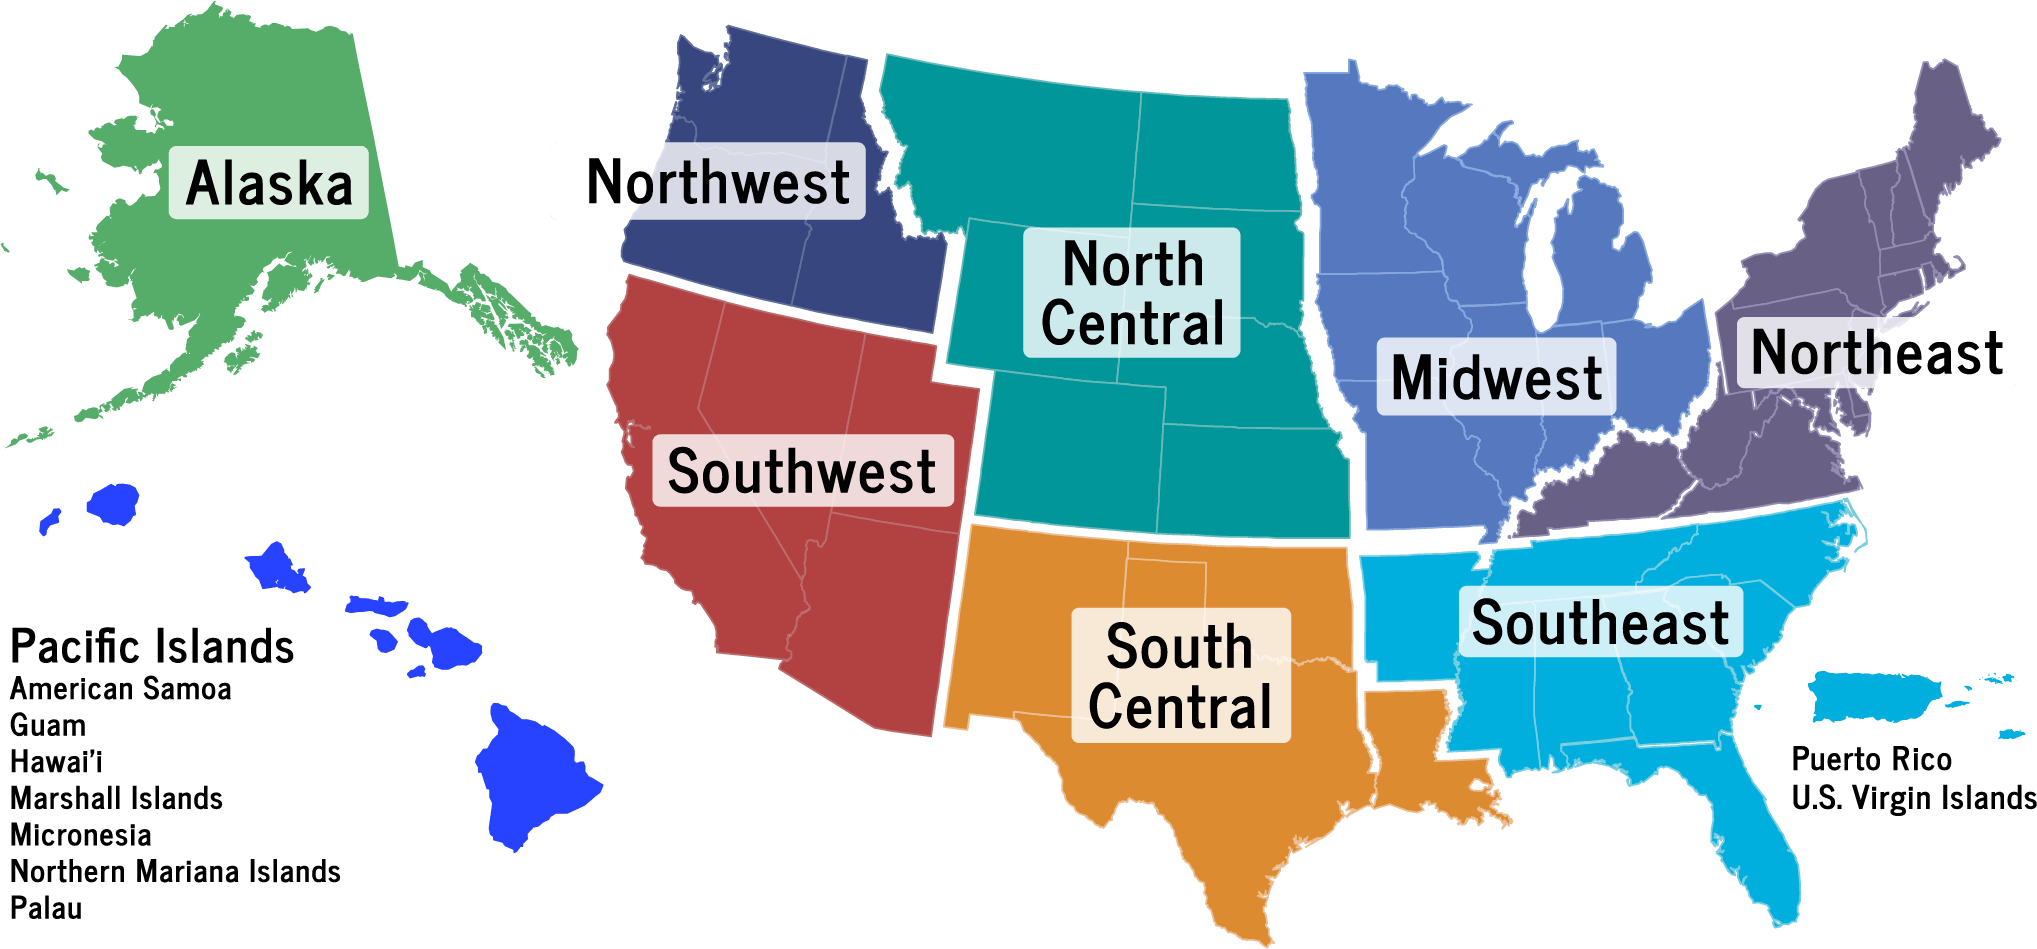
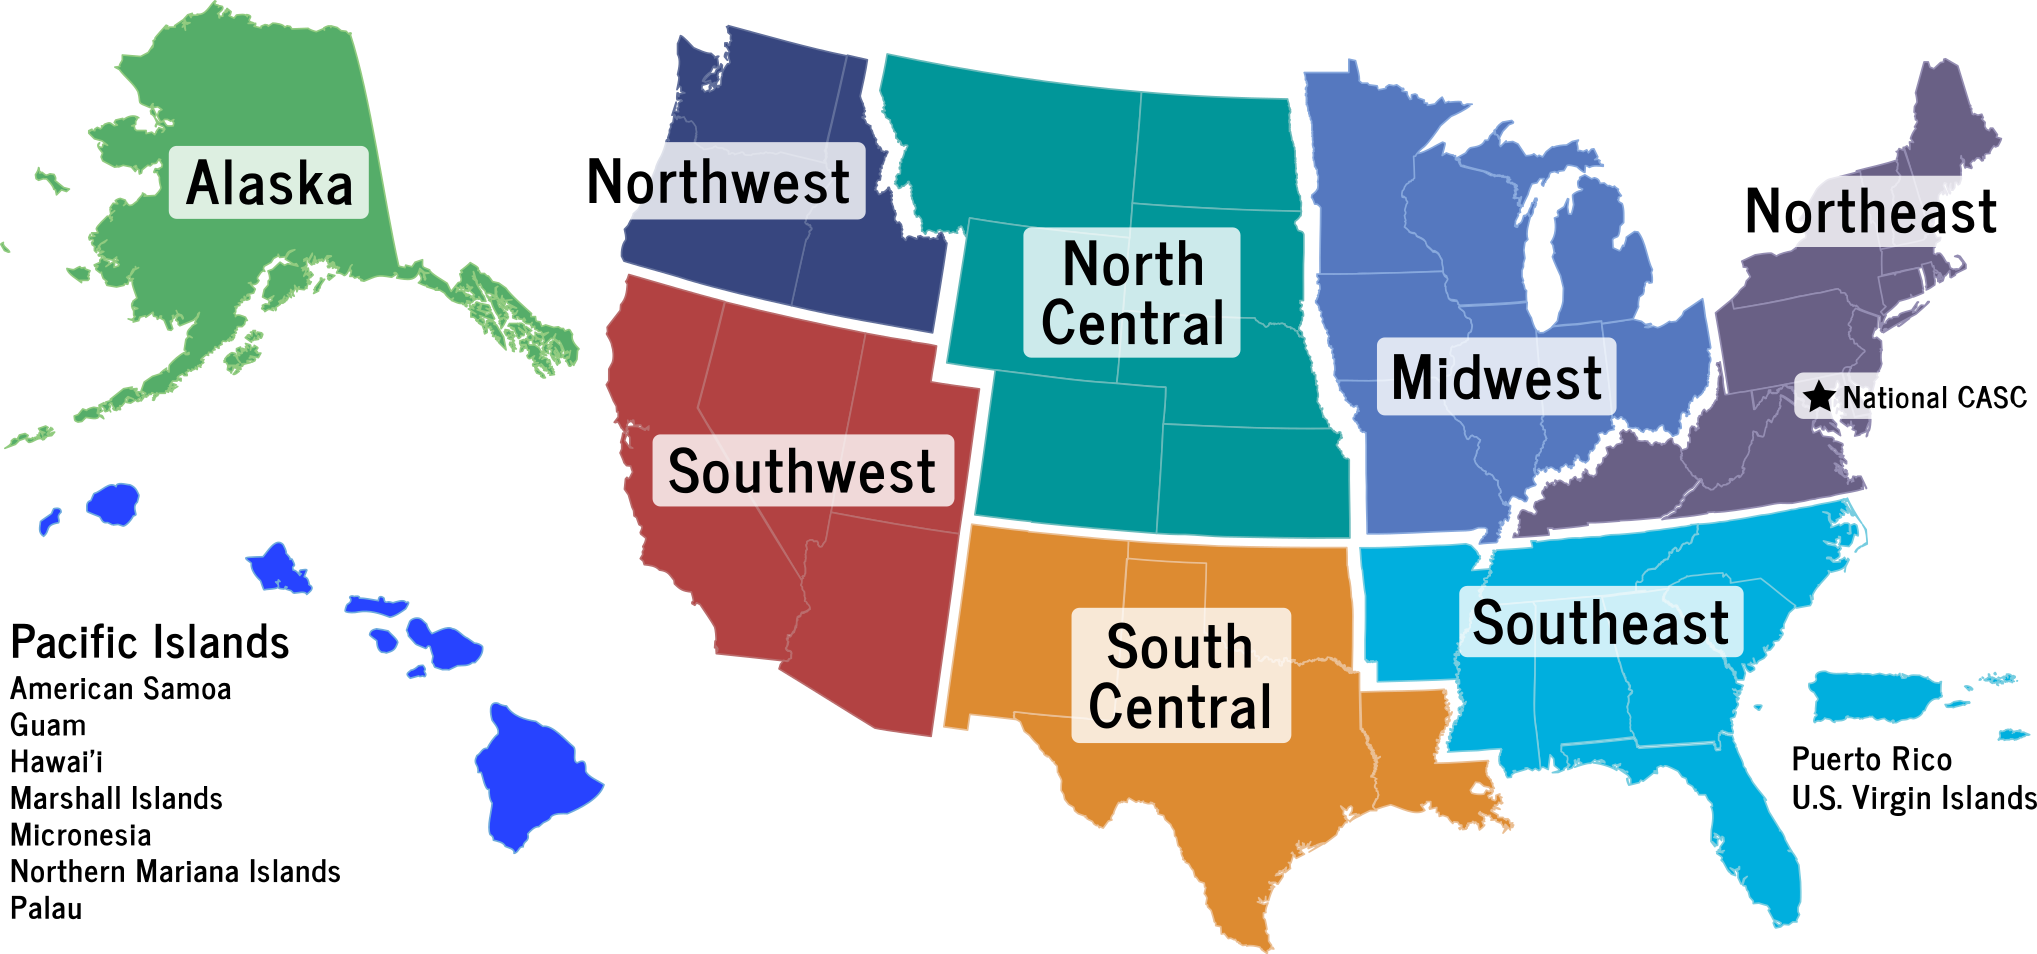
Updates CASC map with National CASC and new HTML area map. (#92)
* Updates CASC map with National CASC and new HTML area map.

* Larged CASC map and updated HTML area map.

diff --git a/src/app/cscs/cscs.component.html b/src/app/cscs/cscs.component.html
@@ -12,15 +12,16 @@
       <h3>Search by region</h3>
       <img class="casc-map" src="assets/images/casc_regional_map.png" usemap="#casc-image" (load)="imageResized();" alt="Map showing the different CASC regions" />
       <map name="casc-image">
-        <area target="" alt="Alaska" title="Alaska" href="#/casc/alaska" coords="-1,0,582,453" shape="rect">
-        <area target="" alt="Pacific Islands" title="Pacific Islands" href="#/casc/pacific-islands" coords="-1,468,607,934" shape="rect">
-        <area target="" alt="Northwest" title="Northwest" href="#/casc/northwest" coords="587,4,589,262,939,341,954,241,910,225,893,190,884,166,893,153,871,94,871,52,738,20" shape="poly">
-        <area target="" alt="Southwest" title="Southwest" href="#/casc/southwest" coords="609,269,593,326,613,468,633,564,672,593,707,645,705,667,766,676,919,748,934,741,980,385,939,378,934,345" shape="poly">
-        <area target="" alt="North Central" title="North Central" href="#/casc/north-central" coords="878,55,880,105,891,138,895,160,893,184,915,225,958,238,943,365,991,378,972,518,1352,538,1345,446,1326,398,1306,324,1304,223,1291,94" shape="poly">
-        <area target="" alt="South Central" title="South Central" href="#/casc/south-central" coords="969,522,943,730,967,737,974,719,1013,726,1055,772,1063,802,1103,837,1125,811,1151,813,1190,879,1208,929,1273,947,1299,855,1374,815,1511,837,1490,761,1439,757,1446,691,1363,691,1350,549" shape="poly">
-        <area target="" alt="Midwest" title="Midwest" href="#/casc/midwest" coords="1293,57,1310,212,1312,324,1345,415,1358,444,1363,536,1468,534,1472,549,1498,540,1516,503,1540,475,1590,459,1612,422,1680,437,1708,387,1704,300,1640,315,1658,271,1640,221,1614,181,1599,147,1468,101,1369,59" shape="poly">
-        <area target="" alt="Southeast" title="Southeast" href="#/casc/southeast" coords="1352,549,1367,667,1374,684,1452,687,1444,748,1496,752,1507,781,1562,781,1614,772,1627,789,1669,774,1702,805,1699,844,1771,936,1806,923,1813,827,2036,818,2036,652,1785,656,1876,549,1865,496,1671,525,1494,555" shape="poly">
-        <area target="" alt="Northeast" title="Northeast" href="#/casc/northeast" coords="1946,46,1914,46,1900,127,1815,173,1791,238,1739,249,1739,282,1712,308,1710,391,1680,444,1621,431,1588,466,1529,490,1507,536,1653,520,1872,483,1855,450,1892,391,2016,385,2012,321,1931,308,1981,262,1959,214,2005,140" shape="poly">
+        <area target="" alt="Alaska" title="Alaska" href="#/casc/alaska" coords="210,2,192,14,159,27,150,47,127,50,120,61,139,101,161,122,148,128,138,112,96,130,31,169,-1,247,89,279,123,293,130,324,145,338,174,331,179,344,-1,439,6,452,175,394,233,374,256,356,267,308,300,292,310,295,346,281,402,279,454,302,469,326,539,376,579,364,568,329,537,317,472,261,456,284,420,263,404,263,354,34,334,25,316,31,280,16,264,25,247,13" shape="poly">
+        <area target="" alt="Pacific Islands" title="Pacific Islands" href="#/casc/pacific-islands" coords="-1,486,132,473,287,536,487,643,607,785,588,803,552,821,521,851,372,886,370,931,1,931" shape="poly">
+        <area target="" alt="Northwest" title="Northwest" href="#/casc/northwest" coords="731,25,724,58,679,34,676,103,670,139,577,146,582,216,632,220,629,243,627,259,793,308,935,337,942,236,904,238,888,189,874,200,886,151,863,101,868,56" shape="poly">
+        <area target="" alt="Southwest" title="Southwest" href="#/casc/southwest" coords="620,274,616,302,600,324,611,349,602,387,613,418,615,457,622,488,642,560,683,599,710,632,710,652,771,668,872,727,931,738,983,385,937,376,938,346" shape="poly">
+        <area target="" alt="North Central" title="North Central" href="#/casc/north-central" coords="884,52,877,92,879,113,899,144,893,184,910,184,913,212,919,230,958,234,944,358,992,374,974,517,1187,538,1352,536,1354,464,1343,430,1320,398,1300,324,1306,236,1286,95,1102,85" shape="poly">
+        <area target="" alt="South Central" title="South Central" href="#/casc/south-central" coords="969,518,944,729,969,729,973,715,1023,724,1043,756,1057,787,1063,799,1102,828,1120,805,1151,806,1174,837,1181,862,1205,891,1210,920,1217,940,1275,952,1271,909,1302,859,1381,814,1439,815,1467,835,1514,828,1505,799,1487,761,1440,758,1449,709,1444,686,1367,689,1361,666,1347,551,1158,542" shape="poly">
+        <area target="" alt="Midwest" title="Midwest" href="#/casc/midwest" coords="1306,71,1309,107,1311,140,1313,183,1313,199,1317,233,1315,275,1317,305,1329,347,1338,383,1353,411,1360,435,1367,532,1480,532,1478,545,1495,539,1507,514,1513,496,1532,483,1590,460,1615,417,1642,429,1676,433,1711,383,1703,294,1669,325,1644,318,1657,278,1642,233,1595,143,1507,116,1469,96,1396,78,1369,80,1353,55,1342,71" shape="poly">
+        <area target="" alt="Southeast" title="Southeast" href="#/casc/southeast" coords="1358,545,1361,657,1377,662,1377,677,1451,677,1458,706,1446,745,1500,752,1507,778,1548,770,1604,770,1629,787,1665,769,1707,808,1705,844,1727,873,1750,898,1768,904,1775,932,1806,922,1806,862,1799,823,2036,823,2034,666,1818,666,1757,668,1799,612,1817,616,1842,572,1874,544,1853,499,1624,533,1541,544,1496,545,1485,562,1466,544" shape="poly">
+        <area target="" alt="National CASC" title="National CASC" href="#/casc/national-casc" coords="1795,373,1795,418,2036,416,2034,373" shape="poly">
+        <area target="" alt="Northeast" title="Northeast" href="#/casc/northeast" coords="1919,59,1910,107,1908,138,1878,159,1829,174,1730,176,1732,246,1788,248,1739,257,1748,276,1712,309,1719,354,1716,390,1683,442,1626,433,1595,467,1574,483,1547,487,1532,507,1520,503,1512,530,1547,534,1590,523,1660,521,1869,489,1867,467,1854,476,1845,442,1863,435,1871,420,1799,419,1799,372,1885,366,1932,305,1970,264,1971,246,2015,248,2016,174,1968,174,2004,141,1986,114,1971,109,1957,57,1946,57,1935,66" shape="poly">
       </map>
     </div>
   </div>
